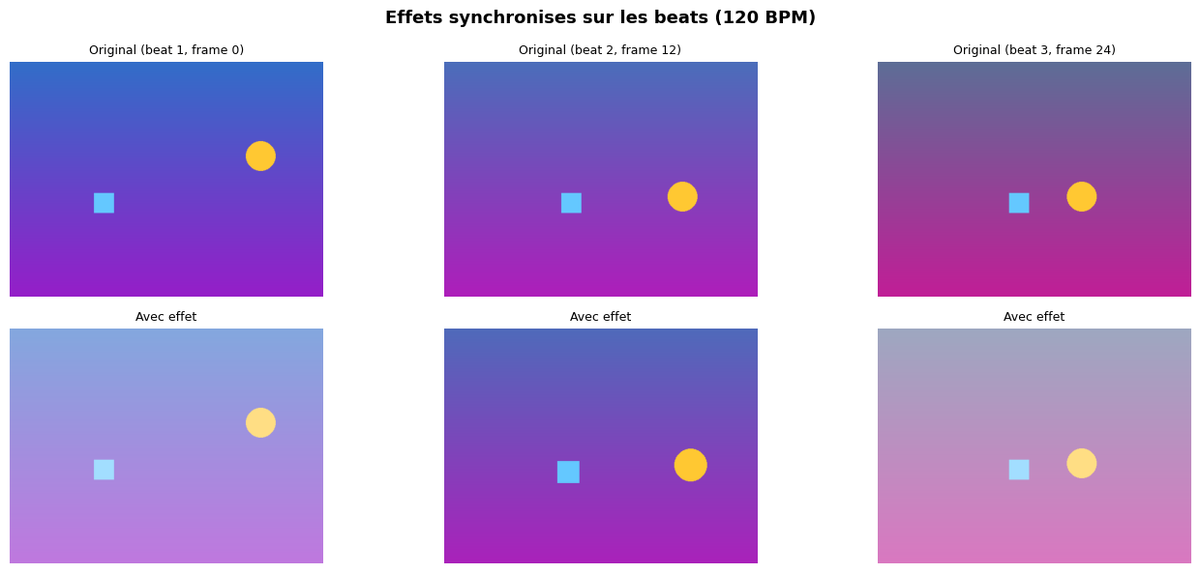
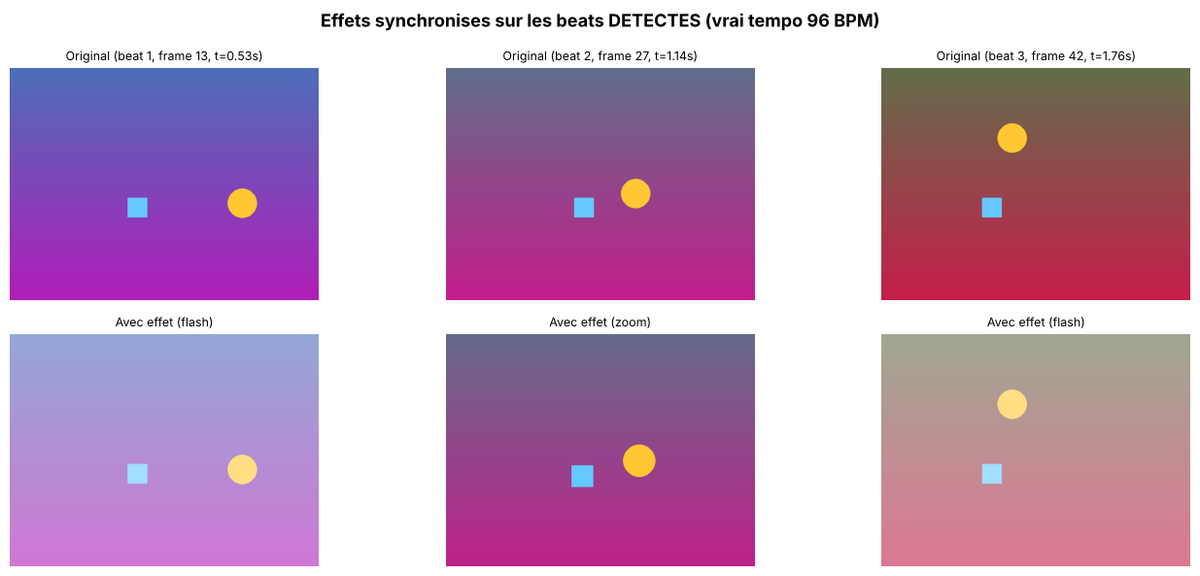
Fix(readme,#24395): Video 03/04 -- figures re-alignees sur les sorties commitees (gpt-image-1, beats 96 BPM) + retrait des 3 figures sans provenance
workflow1/workflow2 reprises des sorties gpt-image-1 commitees du 03-2
(les regen c.184/c.10155 etaient externes et non commitees) ; creative
reprise de la sortie beats DETECTES 96 BPM du 04-2 ; sora/sora2/pipeline
retirees (aucune sortie commitee correspondante), tombstones au MANIFEST.

diff --git a/MyIA.AI.Notebooks/GenAI/Video/04-Applications/assets/readme/MANIFEST.md b/MyIA.AI.Notebooks/GenAI/Video/04-Applications/assets/readme/MANIFEST.md
@@ -14,6 +14,12 @@ Toutes les attributions cell[X]/out[Y] sont **validées par ratio** (downscaling
 
 > **Migration canonical c.763 (2026-07-22, jsboige:CoursIA-2)** : ajout du champ **`Description visuelle`** (gist compact de ce qui est *visible* en un coup d'œil, distinct du `Contenu réel vérifié` détaillé et du `Alt-text (FR)` accessibilité). Format aligné sur c.751 (GenAI/Audio) + modèle rollout #5780. 6/6 figures migrées, audit vision MiniMax M3 firsthand + PIL RGB mean+std à 80×80 (cf. PR body). **Audit fondateur c.485 préservé verbatim** ci-dessus ; cette migration est purement additive (pas de suppression de contenu).
 
+> **Ré-alignement #24395 (2026-11-07, myia-po-2023:CoursIA)** : doctrine — une figure README n'existe qu'avec une **provenance committée** (extraction d'outputs de notebooks, EPIC #5654 source 1). Deux gestes :
+> - **Remplacement** de `vid4-creative.png` : l'ancienne version (grille « 120 BPM », cellule 9 d'époque) ne correspondait plus à la sortie committée courante du notebook 04-2, qui détecte le **vrai tempo** du morceau. Nouvelle source (pérenne, ancrée par titre de sortie) : « Effets synchronises sur les beats DETECTES (vrai tempo 96 BPM) » — cellule 11 à l'extraction du 07/11 ; texte compagnon committé : « Periode vraie 0.625 s (96 BPM) vs 0.500 s (temoin 120) ». PNG 1200×576 (downscalé depuis 1235×593), 55 Ko.
+> - **Retrait** de `vid4-sora.png`, `vid4-sora2.png` (notebook 04-3) et `vid4-pipeline.png` (notebook 04-4) : aucune sortie committée de ces notebooks ne correspond plus à ces figures. L'issue #24395 autorise explicitement le retrait pour les figures sans provenance committée ; tombstones ci-dessous, historique descriptif complet dans git.
+>
+> L'audit fondateur c.485 et la migration c.763 ci-dessus restent valables **pour les figures d'époque** (historique git) ; les sections ci-dessous décrivent l'état courant.
+
 ## vid4-educational.png
 
 - **Source** : notebook `04-1-Educational-Video-Generation.ipynb` (cellule 9, output 2) — génération automatique de slides pédagogiques à partir d'un script textuel
@@ -29,15 +35,16 @@ Toutes les attributions cell[X]/out[Y] sont **validées par ratio** (downscaling
 
 ## vid4-creative.png
 
-- **Source** : notebook `04-2-Creative-Video-Workflows.ipynb` (cellule 9, output 2) — effets audio-réactifs synchronisés sur beats musicaux
-- **Description visuelle** : Six vignettes en grille 2×3 sous le titre gras « Effets synchronises sur les beats (120 BPM) ». Chaque vignette contient un **petit carré bleu cyan** (côté gauche) et un **cercle orange** (côté droit) en mouvement. Rangée du haut = « Original » aux frames 0/12/24 (les couleurs du carré et du cercle restent saturées). Rangée du bas = « Avec effet » sur les mêmes frames (le carré devient pastel bleu clair, le cercle jaune pastel). Fond dégradé diagonale bleu-violet → rose. Palette dominante violet/magenta (RGB 80×80 mean ≈ 179/150/211, fort B), contraste fort entre les 2 formes géométriques simples et le fond.
-- **Contenu réel vérifié** : PNG 1200×573, grille 2×3 sous le titre « Effets synchronisés sur les beats (120 BPM) » :
-  - Rangée du haut = « Original (beat 1, frame 0) » / « Original (beat 2, frame 12) » / « Original (beat 3, frame 24) » — formes géométriques simples (carré cyan + cercle orange) sur fond bleu/violet → rose.
-  - Rangée du bas = « Avec effet » sur les mêmes timesteps — formes décalées + couleurs plus pastelisées.
-  - L'effet de synchronisation est visible : à chaque beat (toutes les 12 frames à 120 BPM), la position du cercle orange ou la palette change.
-- **Alt-text (FR)** : Grille 2×3 « Effets synchronisés sur les beats (120 BPM) » — comparaison entre frames originales (haut, beat 1/2/3 à frame 0/12/24) et frames transformées par effet audio-réactif (bas), montrant le carré cyan et le cercle orange se déplacer/changer au fil des battements sur fond dégradé bleu-violet-rose.
-- **Poids** : 45 Ko (PNG max-dim 1200 px depuis source 1240×593)
-- **Note** : alt-text antérieur « Workflow créatif vidéo — séquence générée » = sur-vendeur ; le pattern pédagogique est **audio-réactif sur beats**, pas « créativité libre ».
+- **Source** : notebook `04-2-Creative-Video-Workflows.ipynb` — sortie titrée « Effets synchronises sur les beats DETECTES (vrai tempo 96 BPM) » (cellule 11 à l'extraction du 07/11) — effets audio-réactifs synchronisés sur les beats détectés du morceau témoin
+- **Description visuelle** : Six vignettes en grille 2×3 sous le suptitre « Effets synchronises sur les beats DETECTES (vrai tempo 96 BPM) ». Chaque panneau porte un fond en dégradé (violet/magenta, rouge/olive, rose/gris selon le panneau) avec deux formes géométriques — un petit carré bleu clair et un cercle jaune/orange. Rangée du haut = panneaux « Original » aux beats 1/2/3 (frames 13/27/42) ; rangée du bas = « Avec effet » sur les mêmes beats — flash, zoom puis flash. La comparaison haut/bas montre l'effet audio-réactif appliqué aux instants exacts des beats détectés.
+- **Contenu réel vérifié** (structurel à la source committée + audit #20603 + QA vision 07/11) : PNG 1200×576, grille 2×3 :
+  - Suptitre intégré « Effets synchronises sur les beats DETECTES (vrai tempo 96 BPM) » ; texte stream compagnon : « Periode vraie 0.625 s (96 BPM) vs 0.500 s (temoin 120) ».
+  - Rangée du haut = « Original (beat 1, frame 13, t=0.53s) » / « Original (beat 2, frame 27, t=1.14s) » / « Original (beat 3, frame 42, t=1.76s) ».
+  - Rangée du bas = « Avec effet (flash) » / « Avec effet (zoom) » / « Avec effet (flash) ».
+  - Le point pédagogique : le tempo **détecté** (96 BPM) diffère du témoin (120 BPM) — la synchronisation suit les beats réels du morceau, pas un métronome supposé.
+- **Alt-text (FR)** : Grille 2×3 « Effets synchronisés sur les beats détectés (vrai tempo 96 BPM) » — rangée du haut : frames originales aux beats 1/2/3 (frames 13/27/42) ; rangée du bas : mêmes frames avec effet audio-réactif (flash/zoom) appliqué à chaque beat détecté.
+- **Poids** : 55 Ko (PNG max-dim 1200 px depuis source committée 1235×593)
+- **Note** : remplacement #24395 — l'ancienne version (grille « 120 BPM », cf audit c.485 + migration c.763 dans l'historique git) datait d'une exécution dont la sortie n'est plus committée.
 
 ## vid4-creative2.png
 
@@ -51,52 +58,25 @@ Toutes les attributions cell[X]/out[Y] sont **validées par ratio** (downscaling
 - **Poids** : 37 Ko (PNG max-dim 1200 px depuis source 1519×397)
 - **Note** : alt-text antérieur « variante de composition » = sous-spécifique ; le contenu réel = **mosaïque 4 styles visuels** (Original / Aquarelle / Dessin / Teal & Orange), pas une simple variation de cadrage.
 
-## vid4-sora.png
+## vid4-sora.png — RETIRÉE
 
-- **Source** : notebook `04-3-Sora-API-Cloud-Video.ipynb` (cellule 9, output 3) — simulation Sora API sur 2 thèmes (Nature/Urbain) à 4 timesteps
-- **Description visuelle** : Huit vignettes en grille 2×4 sous le titre gras « Generation Text -> Video (Sora API) ». Rangée du haut = « Nature » à t=0.0/1.6/3.3/5.0s ; rangée du bas = « Urbain » aux mêmes timesteps. Chaque vignette contient un **disque jaune** (le « soleil stylisé ») centré sur un **horizon herbe vert** et un **ciel dégradé violet/bleu**. La rangée du bas diffère surtout par le prompt injecté en haut (Tokyo/rue vs montagne/lac), mais le rendu géométrique reste quasiment identique à la rangée du haut (soleil + horizon + ciel) — d'où l'aspect « simulation disciplinée ». Filigrane « Sora API - Simulation » lisible en bas-gauche de chaque vignette. Palette globale vert/bleu/violet équilibrée (RGB 80×80 mean ≈ 125/146/144, B≈R≈144, écart-type modéré).
-- **Contenu réel vérifié** : PNG 1200×422, sous le titre global « Generation Text -> Video (Sora API) », grille 2×4 :
-  - Rangée du haut = thème « Nature » à t=0.0s / t=1.6s / t=3.3s / t=5.0s — soleil stylisé jaune sur ciel dégradé + horizon herbe vert, prompt « Prompt: A realistic mountain lake at sunset, reflecting sky » en haut de chaque frame, filigrane « Sora API - Simulation » + sphère 3D en bas à gauche.
-  - Rangée du bas = thème « Urbain » aux mêmes timesteps — soleil + horizon herbe (prompts qui ne correspondent PAS au prompt affiché, simplification géométrique), filigrane identique.
-- **Alt-text (FR)** : Grille 2×4 « Generation Text → Video (Sora API) » — simulation sur 2 thèmes (Nature : montagne lac au coucher de soleil réfléchissant le ciel ; Urbain : rue Tokyo de nuit avec néons) à 4 timesteps t=0.0/1.6/3.3/5.0s. Soleil stylisé + horizon herbe + ciel dégradé + filigrane « Sora API - Simulation ».
-- **Poids** : 49 Ko (PNG max-dim 1200 px depuis source 1589×559)
-- **Note** : le notebook produit une **simulation disciplinée** (pas de Sora API réel faute de clé/quota) — disclose assumée dans le README « workflow Sora en simulation ».
+- **Statut** : **RETIRÉE le 2026-11-07 (#24395)**. Aucune sortie committée du notebook `04-3-Sora-API-Cloud-Video.ipynb` à main ne correspond à cette figure ; sans provenance committée, une figure README ne se maintient pas (doctrine #24395). La description complète (audit c.485 + migration c.763 : grille 2×4 « Generation Text -> Video (Sora API) », filigrane « Sora API - Simulation ») reste dans l'historique git de ce MANIFEST. Le notebook 04-3 conserve sa disclose « simulation disciplinée » dans le README de série.
 
-## vid4-sora2.png
+## vid4-sora2.png — RETIRÉE
 
-- **Source** : notebook `04-3-Sora-API-Cloud-Video.ipynb` (cellule 11, output 2) — effet Ken Burns sur image source
-- **Description visuelle** : Cinq vignettes côte-à-côte sous le titre gras « Image -> Video (effet Ken Burns) » montrant un **zoom progressif** sur la même scène : **montagnes triangulaires vert foncé** + **soleil jaune** + **horizon herbe vert** + **ciel bleu**. Frame 0 « Image source » = cadrage large (montagnes + soleil en haut, herbe en bas). Frames 1→4 = zoom graduel (t=0.0s/1.6s/3.3s/5.0s), montagnes de plus en plus grandes, soleil de plus en plus proche. La **statique de la composition interne** (aucun objet ne bouge) contraste avec l'**évolution du cadrage** (camera se rapproche) — c'est précisément ce qui définit l'effet Ken Burns. Palette globale vert/bleu (RGB 80×80 mean ≈ 153/167/173, G domine), variance modérée.
-- **Contenu réel vérifié** : PNG 1200×200, sous le titre « Image -> Video (effet Ken Burns) », séquence horizontale 5 frames :
-  - Frame 0 « Image source » : montagne triangulaire + soleil + horizon, cadrage large.
-  - Frame 1 « t = 0.0s » : zoom léger (cadre plus serré, montagnes plus grandes, soleil plus proche).
-  - Frame 2 « t = 1.6s » : zoom progressif.
-  - Frame 3 « t = 3.3s » : zoom progressif.
-  - Frame 4 « t = 5.0s » : zoom maximal (montagnes + soleil occupant la moitié du cadre).
-- **Alt-text (FR)** : Séquence « Image → Video (effet Ken Burns) » — 5 frames d'un zoom progressif sur une image source statique (montagnes + soleil + horizon herbe) entre t=0.0s et t=5.0s : la caméra se rapproche graduellement, cadrage de plus en plus serré, sans aucun objet en mouvement interne au clip.
-- **Poids** : 36 Ko (PNG max-dim 1200 px depuis source 1589×265)
-- **Note** : alt-text antérieur « Simulation Sora — aperçu alternatif » cite « Sora » à tort, le contenu est **un effet Ken Burns** (zoom statique sur image fixe), pas une simulation Sora. C'est **le 2ᵉ exemple pédagogique** du notebook 04-3, illustrant un autre mode de génération à partir d'images.
+- **Statut** : **RETIRÉE le 2026-11-07 (#24395)**, même motif : aucune sortie committée du notebook 04-3 ne correspond à cette figure. La description complète (séquence « Image -> Video (effet Ken Burns) », zoom progressif sur image fixe) reste dans l'historique git de ce MANIFEST.
 
-## vid4-pipeline.png
+## vid4-pipeline.png — RETIRÉE
 
-- **Source** : notebook `04-4-Production-Video-Pipeline.ipynb` (cellule 9, output 2) — 5 scènes vidéo produites par le pipeline bout-en-bout
-- **Description visuelle** : Cinq vignettes côte-à-côte sous le titre gras « Images des scenes du pipeline », chaque vignette correspondant à une **scène titrée** (« Scene 1: Introduction » → « Scene 5: Perspectives »). Toutes les vignettes partagent la **même structure visuelle** : constellation de bulles de tailles variées reliées par des lignes filaires, sur fond coloré distinct. Palette varies nettement par scène : bleu vif, marron/ocre, vert forêt, violet, bleu nuit (RGB 80×80 std ≈ 102/101/95 — la variance la plus forte des 6, signature d'une mosaïque multi-couleurs). Étiquette blanche en bas de chaque vignette reprend le titre de la scène. Lecture séquentielle gauche→droite raconte la progression narrative du pipeline.
-- **Contenu réel vérifié** : PNG 1200×236, sous le titre « Images des scenes du pipeline », séquence horizontale 5 scènes :
-  - **Scene 1: Introduction** (fond bleu) — constellation de bulles bleues + lignes filaires reliant plusieurs nœuds.
-  - **Scene 2: Origines historiques** (fond marron) — bulles ocres + constellation filaire géométrique.
-  - **Scene 3: Fonctionnement** (fond vert forêt) — bulles vertes + lignes filaires, réseau plus dense.
-  - **Scene 4: Applications** (fond violet) — bulles magenta + lignes filaires, constellation aérée.
-  - **Scene 5: Perspectives** (fond bleu nuit) — bulles bleues pâles + lignes filaires, ton final plus sombre.
-- **Alt-text (FR)** : « Images des scènes du pipeline » — 5 vignettes côte-à-côte des scènes vidéo générées bout-en-bout par le pipeline de production : « Scene 1: Introduction » (bulles bleues sur fond bleu), « Scene 2: Origines historiques » (bulles ocres sur fond marron), « Scene 3: Fonctionnement » (bulles vertes sur fond vert forêt), « Scene 4: Applications » (bulles magenta sur fond violet), « Scene 5: Perspectives » (bulles bleues pâles sur fond bleu nuit). Chaque scène porte une constellation filaire reliant ses bulles.
-- **Poids** : 75 Ko (PNG max-dim 1200 px depuis source 1589×313)
-- **Note** : alt-text antérieur « Pipeline vidéo production — orchestration » = sur-vendeur ; le contenu est **un storytelling slide-par-slide** (5 scènes titrées), pas un schéma d'orchestration. Le pipeline de production est illustré au niveau **résultat** (ses 5 scènes générées), pas au niveau **mécanique**.
+- **Statut** : **RETIRÉE le 2026-11-07 (#24395)** : aucune sortie committée du notebook `04-4-Production-Video-Pipeline.ipynb` ne correspond à cette figure. La description complète (5 scènes titrées « Introduction / Origines historiques / Fonctionnement / Applications / Perspectives », storytelling slide-par-slide) reste dans l'historique git de ce MANIFEST. Le notebook 04-4 reste la référence visuelle de son pipeline.
 
 ---
 
-**Total** : 6 figures, 292 Ko. **Politique** (#5654) : ≤200 Ko/fichier, downscale ≤1200 px max. Toutes PNG ; pas de fallback WebP nécessaire (compresseur PNG downscalé gagne déjà 1589→1200 = ratio 1.32 → fichiers 35-75 Ko, sous les 200 Ko sans effort).
+**Total** : 3 figures, 138 Ko (après retraits #24395 : educational 47 Ko, creative 55 Ko, creative2 37 Ko). **Politique** (#5654) : ≤200 Ko/fichier, downscale ≤1200 px max. Toutes PNG ; pas de fallback WebP nécessaire (compresseur PNG downscalé → fichiers 37-55 Ko, sous les 200 Ko sans effort).
 
 **⚠ Limitations de ce MANIFEST** :
-- Aucune figure ne montre de limitation manifeste du pipeline (toutes les figures ont produit du contenu visible et illustratif).
-- 2 figures Sora (vid4-sora.png + vid4-sora2.png) sont **des simulations disciplinées** (Sora API réelle = besoin clé/quota utilisateur, RECOVERABLE-USER-HAND) — le notebook 04-3 le disclose explicitement dans son README « workflow en simulation ».
-- 1 figure pipeline (vid4-pipeline.png) montre le **résultat** du pipeline (5 scènes) et pas son **mécanique** — l'illustration pédagogique privilégie le storytelling narratif.
-- Les sources sont **downscalées** (ratio 1589→1200 ≈ 1.32, sauf vid4-creative.png 1240→1200 ≈ 1.03) — c'est la compression PNG max-dim 1200 standard, pas une modification du contenu.
-- Toutes les figures restent sur disque ; cette PR ne supprime AUCUN fichier PNG.
+- Aucune figure restante ne montre de limitation manifeste du pipeline (toutes ont produit du contenu visible et illustratif).
+- 3 figures retirées le 2026-11-07 (#24395) faute de provenance committée : `vid4-sora.png`, `vid4-sora2.png` (notebook 04-3), `vid4-pipeline.png` (notebook 04-4) — tombstones ci-dessus ; les notebooks reprennent la fonction d'illustration.
+- `vid4-creative.png` est la sortie committée courante du notebook 04-2 (tempo détecté 96 BPM) ; l'ancienne version à 120 BPM n'est plus committée.
+- Les sources sont **downscalées** (≤1200 px) — c'est la compression PNG max-dim 1200 standard, pas une modification du contenu.
+- Les retraits #24395 sont documentés en tombstones, jamais silencieux ; les figures conservées demeurent sur disque.

diff --git a/MyIA.AI.Notebooks/GenAI/Video/04-Applications/README.md b/MyIA.AI.Notebooks/GenAI/Video/04-Applications/README.md
@@ -33,11 +33,11 @@ Ce module présente des cas d'usage concrets et des workflows de production pour
   <em>Sortie du notebook <a href="04-1-Educational-Video-Generation.ipynb">04-1</a> : les 4 premiers slides du deck pédagogique « Introduction au Machine Learning » (titre/définition/types/pipeline) — la chaîne script → prompts → slides → vidéo a produit ce rendu visuellement cohérent à partir d'un script textuel.</em>
 </p>
 
-**[04-2](04-2-Creative-Video-Workflows.ipynb) — Workflows créatifs (moviepy, diffusers).** Deux compositions illustrant la souplesse du workflow créatif : une séquence narrative complète, puis une variante explorant une composition différente à partir des mêmes briques moviepy :
+**[04-2](04-2-Creative-Video-Workflows.ipynb) — Workflows créatifs (moviepy, diffusers).** Deux compositions illustrant la souplesse du workflow créatif : des effets audio-réactifs synchronisés sur les beats détectés du morceau, puis un collage comparant quatre styles visuels sur le même clip :
 
 <p align="center">
-  <a href="04-2-Creative-Video-Workflows.ipynb"><img src="assets/readme/vid4-creative.png" alt="Grille 2×3 « Effets synchronisés sur les beats (120 BPM) » — frames originales (haut, beat 1/2/3 à frame 0/12/24) vs frames transformées par effet audio-réactif (bas), carré cyan et cercle orange se déplaçant sur fond dégradé bleu-violet-rose" width="460"/></a><br>
-  <em>Sortie du notebook <a href="04-2-Creative-Video-Workflows.ipynb">04-2</a> (cellule 9) : effets audio-réactifs synchronisés sur les battements à 120 BPM — le pipeline numpy/moviepy déplace les formes géométriques (carré + cercle) à chaque beat, transformant le clip original en version réactive.</em>
+  <a href="04-2-Creative-Video-Workflows.ipynb"><img src="assets/readme/vid4-creative.png" alt="Grille 2×3 « Effets synchronisés sur les beats détectés (vrai tempo 96 BPM) » — rangée du haut : frames originales aux beats 1/2/3 (frames 13/27/42) ; rangée du bas : mêmes frames avec effet audio-réactif (flash/zoom) appliqué à chaque beat détecté" width="460"/></a><br>
+  <em>Sortie du notebook <a href="04-2-Creative-Video-Workflows.ipynb">04-2</a> (cellule 11) : effets audio-réactifs synchronisés sur les beats <strong>détectés</strong> — le tempo réel du morceau (96 BPM, période 0.625 s) diffère du témoin (120 BPM), et le pipeline numpy/moviepy applique un effet flash ou zoom à chaque beat détecté (frames 13/27/42).</em>
 </p>
 
 <p align="center">
@@ -45,24 +45,9 @@ Ce module présente des cas d'usage concrets et des workflows de production pour
   <em>Sortie du notebook <a href="04-2-Creative-Video-Workflows.ipynb">04-2</a> (cellule 15) : mosaïque 2×2×3 comparant 4 styles visuels (Original / Aquarelle / Dessin / Teal & Orange) appliqués au même clip à 3 timestamps — illustre la flexibilité du pipeline moviepy pour explorer rapidement des directions artistiques différentes sur un même contenu.</em>
 </p>
 
-**[04-3](04-3-Sora-API-Cloud-Video.ipynb) — Workflow cloud Sora (en simulation).** Côté cloud cette fois : le notebook illustre le workflow de génération vidéo via l'API Sora d'OpenAI. L'accès Sora réel étant restreint (clé et quota côté utilisateur), il en produit une **simulation disciplinée** — deux séquences de frames synthétiques, chacune auto-étiquetée « Sora API - Simulation » dans l'image, représentant le rendu attendu (déplacement d'un objet sur un décor prompt-dépendant). Aucun GPU ni accès API réel requis :
+**[04-3](04-3-Sora-API-Cloud-Video.ipynb) — Workflow cloud Sora (en simulation).** Côté cloud cette fois : le notebook illustre le workflow de génération vidéo via l'API Sora d'OpenAI. L'accès Sora réel étant restreint (clé et quota côté utilisateur), il en produit une **simulation disciplinée** — deux séquences de frames synthétiques, chacune auto-étiquetée « Sora API - Simulation » dans l'image, représentant le rendu attendu (déplacement d'un objet sur un décor prompt-dépendant). Aucun GPU ni accès API réel requis. Les figures README qui illustraient autrefois ce workflow ont été retirées (#24395) : aucune sortie committée du notebook 04-3 ne leur correspond plus — le notebook lui-même reste la référence visuelle.
 
-<p align="center">
-  <a href="04-3-Sora-API-Cloud-Video.ipynb"><img src="assets/readme/vid4-sora.png" alt="Simulation du workflow Sora (API cloud) — frames auto-étiquetées Simulation" width="460"/></a><br>
-  <em>Sortie du notebook <a href="04-3-Sora-API-Cloud-Video.ipynb">04-3</a> (cellule 9) : panorama de frames <strong>simulées</strong> illustrant le workflow Sora (API cloud) — la sortie porte le filigrane « Sora API - Simulation ».</em>
-</p>
-
-<p align="center">
-  <a href="04-3-Sora-API-Cloud-Video.ipynb"><img src="assets/readme/vid4-sora2.png" alt="Séquence « Image → Video (effet Ken Burns) » — 5 frames d'un zoom progressif sur une image source statique (montagnes + soleil + horizon herbe) entre t=0.0s et t=5.0s : la caméra se rapproche graduellement sans aucun objet en mouvement interne au clip" width="460"/></a><br>
-  <em>Sortie du notebook <a href="04-3-Sora-API-Cloud-Video.ipynb">04-3</a> (cellule 11) : zoom progressif de type <strong>Ken Burns</strong> sur une image fixe (montagnes + soleil + horizon herbe) — illustre un autre mode de génération à partir d'images, complémentaire à la simulation text→vidéo illustrée par vid4-sora.png.</em>
-</p>
-
-**[04-4](04-4-Production-Video-Pipeline.ipynb) — Pipeline de production.** Le notebook assemble la chaîne bout-en-bout : le panorama ci-dessous montre les frames issues du pipeline orchestré complet, aboutissement de la série :
-
-<p align="center">
-  <a href="04-4-Production-Video-Pipeline.ipynb"><img src="assets/readme/vid4-pipeline.png" alt="« Images des scènes du pipeline » — 5 vignettes côte-à-côte des scènes vidéo générées bout-en-bout : Scene 1 Introduction (bulles bleues sur fond bleu), Scene 2 Origines historiques (bulles ocres sur fond marron), Scene 3 Fonctionnement (bulles vertes sur fond vert forêt), Scene 4 Applications (bulles magenta sur fond violet), Scene 5 Perspectives (bulles bleues pâles sur fond bleu nuit). Chaque scène porte une constellation filaire reliant ses bulles." width="520"/></a><br>
-  <em>Sortie du notebook <a href="04-4-Production-Video-Pipeline.ipynb">04-4</a> : les 5 scènes générées par le pipeline bout-en-bout — Introduction / Origines historiques / Fonctionnement / Applications / Perspectives, chacune avec fond coloré distinct + constellation filaire reliant ses bulles.</em>
-</p>
+**[04-4](04-4-Production-Video-Pipeline.ipynb) — Pipeline de production.** Le notebook assemble la chaîne bout-en-bout (script → scènes → vidéo finale orchestrée), aboutissement de la série. Ses sorties s'exécutent dans le notebook ; aucune figure README n'est committée pour ce pipeline (retrait #24395, même motif de provenance).
 
 **[04-5](04-5-MiniMax-H3-Cloud-Video.ipynb) — Service cloud Hailuo (MiniMax H3), key-gated.** Ce notebook invoque le service cloud Hailuo pour produire de la vidéo HD/2K avec **audio stéréo natif synchronisé** — une capacité inaccessible en auto-hébergement UE (la *Community License* des poids exclut l'UE, voir [`02-6`](../02-Advanced/02-6-MiniMax-H3-Architecture-Licensing.ipynb)). Il contraste avec [`02-2`](../02-Advanced/02-2-LTX-Video-Lightweight.ipynb) (LTX-Video, licence ouverte, local léger mais muet). Le loader est **idempotent** (`MINIMAX_SPEND_QUOTA=1` déclenche la génération, sinon l'artefact commité est chargé) pour ne jamais rebrûler le quota de 5 générations/jour. La sortie réelle est **key-gated** (`MINIMAX_GENAI_API_KEY`) : à la provision de la clé, les artefacts (keyframes + forme d'onde audio + sidecar `task_id`) sont commités comme preuve d'exécution.
 

diff --git a/MyIA.AI.Notebooks/GenAI/Video/03-Orchestration/assets/readme/MANIFEST.md b/MyIA.AI.Notebooks/GenAI/Video/03-Orchestration/assets/readme/MANIFEST.md
@@ -17,15 +17,21 @@ Provenance de chaque figure (convention d'indexation **all-cells** du module `ex
 
 > **Régénération c.184 (2026-08-09, po-2023:CoursIA-2, issue #10155 — Prong A cure)** : `vid3-workflow1.webp` régénérée avec le **vrai SDXL**. L'audit c.476 ci-dessus avait diagnostiqué une « SDXL abstraite » — en réalité les pixels étaient un **fallback synthétique PIL** (notebook cell[14]) tracé géométriquement (rectangle noir + ovale jaune sur dégradé mauve→orange), mais `image_model` restait `"sdxl"` → le tracé héritait du label SDXL (bug de *labeling*, pas de génération). Cette régénération remplace les pixels synthétiques par une **vraie sortie de diffusion SDXL** : `StableDiffusionXLPipeline` sur GPU local, prompt `pipeline1_prompt` (« a majestic lighthouse on a rocky cliff at sunset, dramatic clouds, golden light, cinematic photography »), seed 42. **Variante honnêtement disclosed** : checkpoint **SDXL Lightning 4-step** (distillation ByteDance du SDXL base, même architecture) via `from_single_file`, scheduler EulerDiscreteScheduler(trailing), 8 steps, CFG 1.5 — config différente du notebook cell[8] (30 steps / CFG 7.5 sur base) car la base SDXL n'était pas téléchargeable (cache HF incomplet + throttle réseau) ; Lightning produit une **vraie sortie de diffusion** (pas un workaround dégradé). **Heuristiques objectives** (classe de défaut #10155 = objectivement distinguable) : 69 Ko vs 6 Ko synthétique (×12), pixel_std 67 vs 43, 6004 couleurs uniques échantillonnées vs ~centaines, palette chaude confirmée (mean RGB R=133>G=100>B=83, R dominant = coucher de soleil), structure verticale col-var 665 (cohérente avec « phare »), variance photo std 73/61/55 (vs 43/42/46 synthétique). **Audit c.476 préservé verbatim** ci-dessous (diagnostic historique de l'ancien asset). **QA vision** (reconnaissance du sujet « phare ») : la lane génératrice (GLM) n'a pas la vision — description basée sur prompt + heuristiques ; confirmation visuelle routée vers ai-01 au merge-gate (couplage double-vision CoursIA-2/ai-01).
 
+> **Ré-alignement #24395 (2026-11-07, myia-po-2023:CoursIA)** : `vid3-workflow1.webp` et `vid3-workflow2.webp` remplacées par les **sorties actuellement committées** du notebook 03-2 (cellule 8). Le backend image du notebook est passé de SDXL à **gpt-image-1** après les régénérations c.184/c.10155 (exécutions GPU externes dont les PNG sources ne sont pas committés) : les figures README avaient divergé des sorties du notebook qu'elles prétendaient montrer. Doctrine #24395 : une figure README n'existe qu'avec une **provenance committée** (extraction d'outputs de notebooks, EPIC #5654 source 1). Nouvelles sources (pérennes, ancrées par titre de sortie plutôt que par indice d'output) :
+> - `vid3-workflow1.webp` = sortie titrée « Image source (gpt-image-1) generee en 49.4s » (génération 49.4 s en 1024×576, sortie committée 819×490, WebP q82 method 6, 26 Ko).
+> - `vid3-workflow2.webp` = planche-contact « Pipeline Text -> Image -> Video » (panneau « Source (gpt-image-1) » + frames 1/9/17/25 de l'animation SVD sur les 25 frames committées, sortie 1200×201, WebP 21 Ko).
+>
+> Les régénérations c.184 et c.10155 restent documentées ci-dessous comme **historique** — leurs pixels ne sont plus ceux du dépôt. Les sections détaillées de l'audit c.476 et de la migration c.765 décrivent les assets d'époque et restent valables en tant qu'historique git.
+
 | Figure | Fichier | Dimensions | Poids | Source (notebook · cellule · output) | Source native |
 |--------|---------|------------|-------|--------------------------------------|---------------|
-| Image source SDXL (pipeline text→image→vidéo) | `vid3-workflow1.webp` | 819×490 | 69 Ko | `03-2-Video-Workflow-Orchestration.ipynb` · cellule 8 · output 3 | 1024×576 (régén c.184) |
-| Pipeline text→image→vidéo — planche-contact (source + frames 1-25) | `vid3-workflow2.webp` | 1200×201 | 31 Ko (régén c.10155) | `03-2-Video-Workflow-Orchestration.ipynb` · cellule 8 · output 10 | 1790×300, real-SDXL + SVD (régén c.10155) |
+| Image source gpt-image-1 (pipeline text→image→vidéo) | `vid3-workflow1.webp` | 819×490 | 26 Ko (réalign. #24395) | `03-2-Video-Workflow-Orchestration.ipynb` · cellule 8 · sortie titrée « Image source (gpt-image-1) generee en 49.4s » | 819×490, sortie committée |
+| Pipeline text→image→vidéo — planche-contact (source + frames 1-25) | `vid3-workflow2.webp` | 1200×201 | 21 Ko (réalign. #24395) | `03-2-Video-Workflow-Orchestration.ipynb` · cellule 8 · planche « Pipeline Text -> Image -> Video » | 1200×201, sortie committée |
 | Comparatif brut vs upscale + interpolation (LTX-Video, marguerite) | `vid3-frame1.webp` | 1200×531 | 40 Ko | `03-2-Video-Workflow-Orchestration.ipynb` · cellule 10 · output 9 | 1589×704, 984 Ko |
 | Batch multi-prompts LTX-Video (océan / torche / montagnes, 3×4 frames) | `vid3-frame2.webp` | 1200×723 | 46 Ko | `03-2-Video-Workflow-Orchestration.ipynb` · cellule 12 · output 14 | 1389×837, 913 Ko |
 | ComfyUI AnimateDiff — frames 1-8/16 (lac au couchant) | `vid3-comfyui.webp` | 1200×606 | 82 Ko | `03-3-ComfyUI-Video-Workflows.ipynb` · cellule 9 · output 4 | 1560×788, 1697 Ko |
 
-**Total** : 5 figures, 248 Ko. **Politique** (#5654) : ≤200 Ko/fichier, downscale ≤1200 px max. Les frames vidéo GenAI sont des images photographiques denses (sources 913–1697 Ko) : WebP q82 à 1200 px bat massivement le PNG (ex. frame 1 : 984 Ko → WebP 1200 px 40 Ko vs PNG 600 px 162 Ko — 2× la résolution pour 4× moins de poids). C'est la recommandation WebP P2 « quand le gain est net ».
+**Total** : 5 figures, 215 Ko (après ré-alignement #24395 : workflow1 26 Ko, workflow2 21 Ko). **Politique** (#5654) : ≤200 Ko/fichier, downscale ≤1200 px max. Les frames vidéo GenAI sont des images photographiques denses (sources 913–1697 Ko) : WebP q82 à 1200 px bat massivement le PNG (ex. frame 1 : 984 Ko → WebP 1200 px 40 Ko vs PNG 600 px 162 Ko — 2× la résolution pour 4× moins de poids). C'est la recommandation WebP P2 « quand le gain est net ».
 
 ---
 

diff --git a/MyIA.AI.Notebooks/GenAI/Video/03-Orchestration/README.md b/MyIA.AI.Notebooks/GenAI/Video/03-Orchestration/README.md
@@ -59,18 +59,18 @@ pip install -r requirements-video.txt
 
 Le notebook [03-2](03-2-Video-Workflow-Orchestration.ipynb) exécute réellement trois workflows ; les figures ci-dessous sont ses sorties, réduites en WebP pour l'affichage (provenance et poids natifs dans [`assets/readme/MANIFEST.md`](assets/readme/MANIFEST.md)).
 
-Le **pipeline 1 (text → image → vidéo)** découple la composition de l'animation : SDXL génère d'abord une image source fidèle au prompt, puis Stable Video Diffusion (SVD) l'anime. L'image ci-dessous est cette source — un phare dressé sur une falaise rocheuse au coucher de soleil, sous des nuages dramatiques baignés d'une lumière dorée (prompt `pipeline1_prompt` du notebook).
+Le **pipeline 1 (text → image → vidéo)** découple la composition de l'animation : **gpt-image-1** génère d'abord une image source fidèle au prompt, puis Stable Video Diffusion (SVD) l'anime. L'image ci-dessous est cette source — un phare dressé sur une falaise rocheuse au coucher de soleil, sous un ciel nuageux, la mer calme au premier plan (prompt `pipeline1_prompt` du notebook : « a majestic lighthouse on a rocky cliff at sunset, dramatic clouds, golden light »).
 
 <p align="center">
-<img src="assets/readme/vid3-workflow1.webp" alt="Image source générée par SDXL : un phare sur une falaise rocheuse au coucher de soleil, nuages dramatiques et lumière dorée" width="420"/><br/>
-<sub><b>Image source SDXL</b> — phare sur falaise au coucher de soleil ; le point de départ du pipeline text → image → vidéo, que SVD anime ensuite</sub>
+<img src="assets/readme/vid3-workflow1.webp" alt="Image source générée par gpt-image-1 : un phare sur une falaise rocheuse au coucher de soleil, ciel nuageux, mer calme" width="420"/><br/>
+<sub><b>Image source gpt-image-1</b> — phare sur falaise, ciel nuageux, mer calme ; le point de départ du pipeline text → image → vidéo, que SVD anime ensuite</sub>
 </p>
 
-La planche-contact suivante montre le pipeline complet : la source SDXL, puis les frames 1, 9, 17 et 25 de la vidéo générée — on y voit le sujet évoluer (et dériver) au fil de l'animation.
+La planche-contact suivante montre le pipeline complet : la source gpt-image-1, puis les frames 1, 9, 17 et 25 de la vidéo générée — on y voit le sujet évoluer (et dériver) au fil de l'animation.
 
 <p align="center">
-<img src="assets/readme/vid3-workflow2.webp" alt="Planche-contact du pipeline text-image-vidéo : image source SDXL puis frames 1, 9, 17 et 25 de la vidéo générée" width="640"/><br/>
-<sub><b>Pipeline text → image → vidéo</b> — planche-contact : source SDXL puis frames 1/9/17/25 de l'animation SVD</sub>
+<img src="assets/readme/vid3-workflow2.webp" alt="Planche-contact du pipeline text-image-vidéo : image source gpt-image-1 puis frames 1, 9, 17 et 25 de la vidéo générée" width="640"/><br/>
+<sub><b>Pipeline text → image → vidéo</b> — planche-contact : source gpt-image-1 puis frames 1/9/17/25 de l'animation SVD</sub>
 </p>
 
 Le **pipeline 2 (text → vidéo → upscale → interpolation)** part de LTX-Video (rapide, basse résolution) puis post-traite : upscale (Real-ESRGAN, repli bicubique) et interpolation de frames. La grille comparative oppose quatre frames brutes (1 à 25, en haut) aux frames finales (1 à 49, en bas) sur un plan de marguerite : l'interpolation double la cadence à contenu constant.
